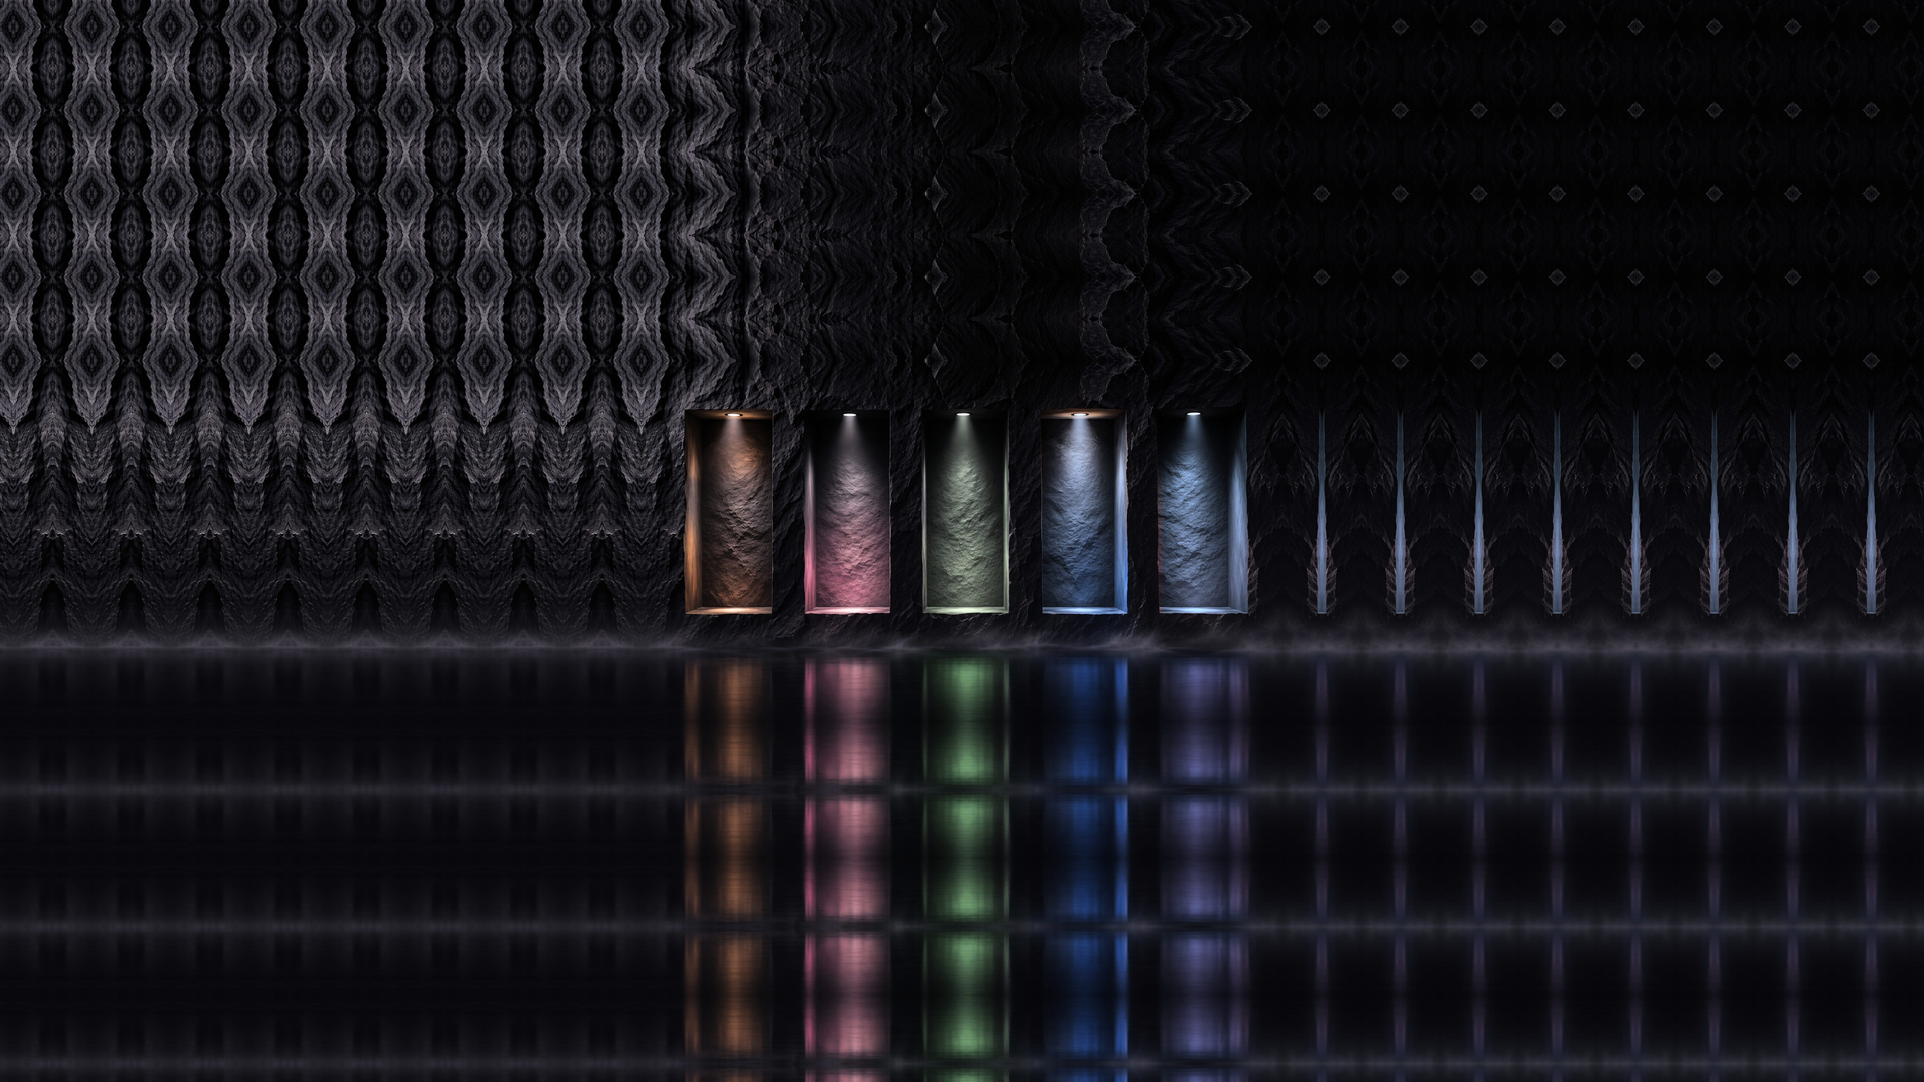
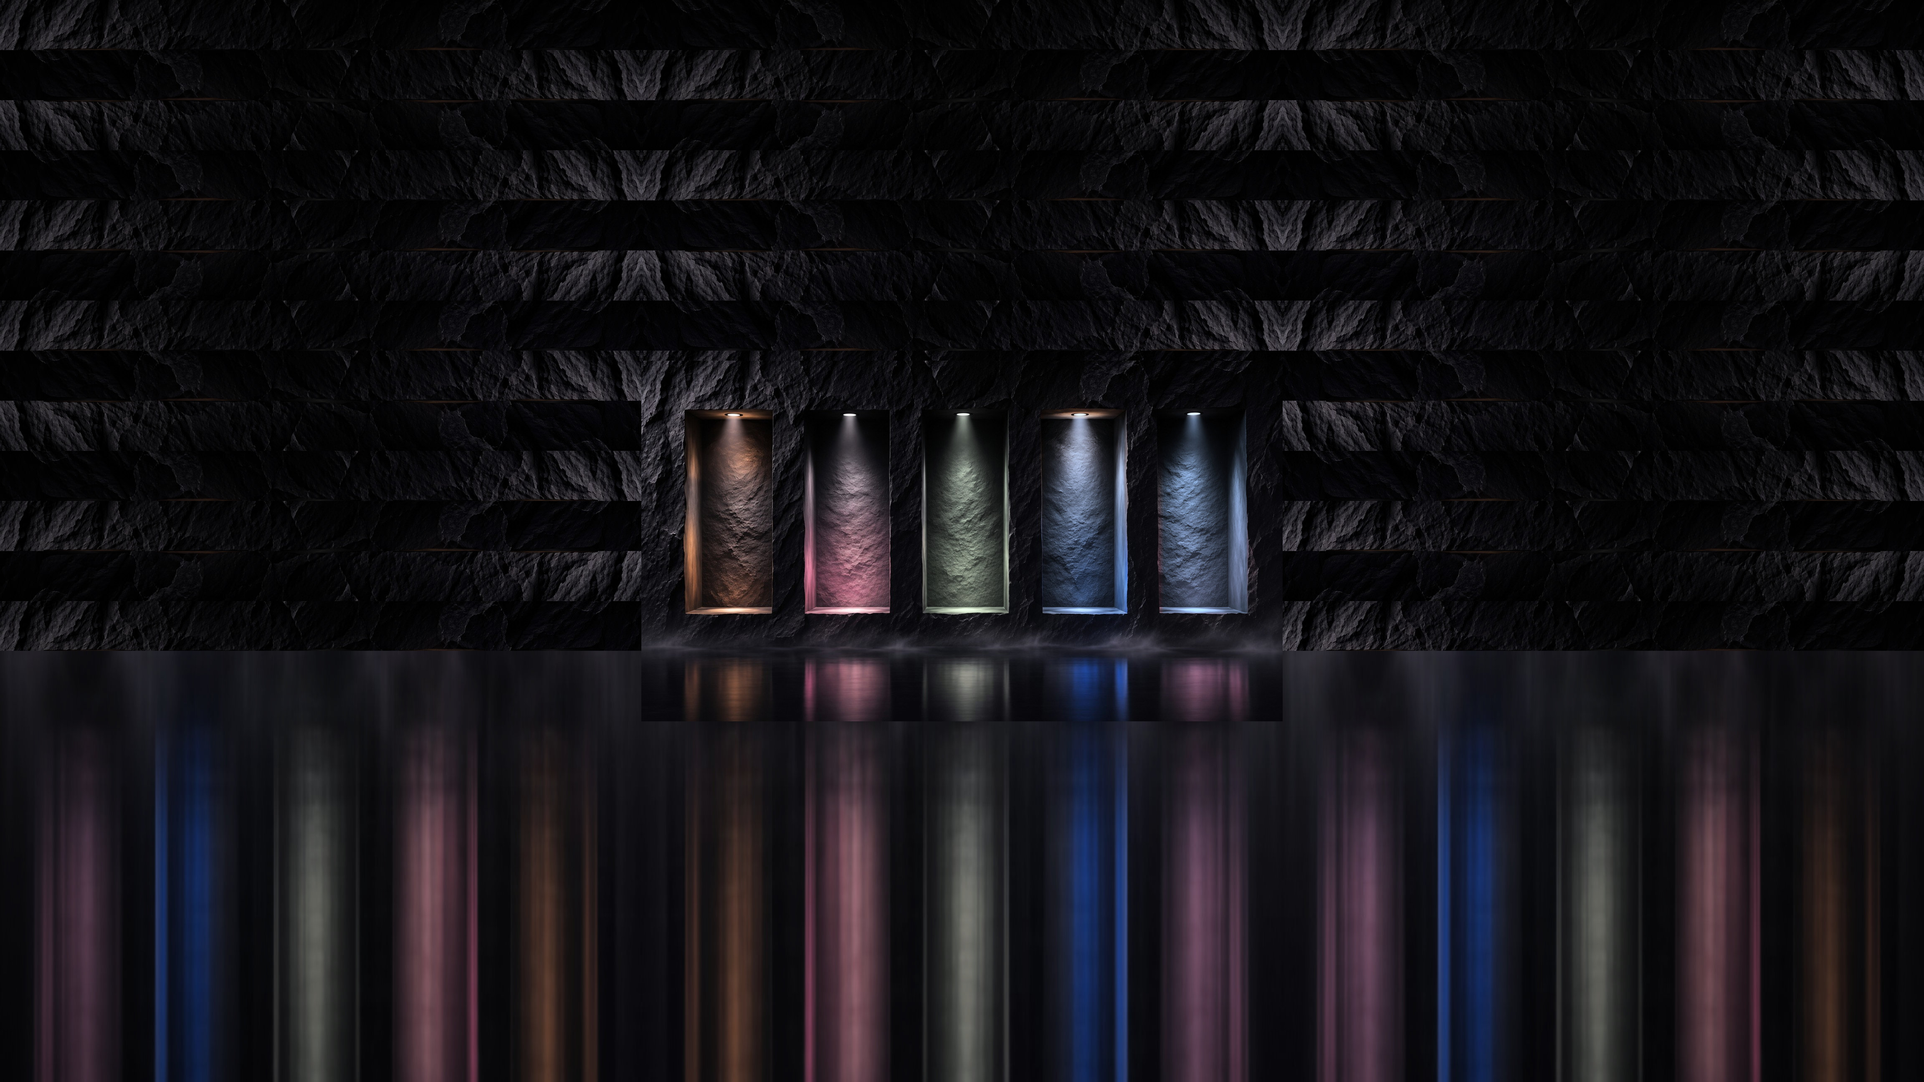
Add files via upload

diff --git a/app.js b/app.js
@@ -1,5 +1,5 @@
 import {
- ACESFilmicToneMapping, AmbientLight, Box3, CanvasTexture, Color, DoubleSide, GLTFLoader,
+ ACESFilmicToneMapping, AmbientLight, Box3, Color, GLTFLoader,
  Group, Mesh, MeshBasicMaterial, MeshStandardMaterial, PerspectiveCamera,
  PlaneGeometry, PMREMGenerator, RoomEnvironment, Scene, SpotLight,
  SRGBColorSpace, Vector3, WebGLRenderer
@@ -17,7 +17,7 @@ const ITEMS = [
 ];
 const D={w:1536,h:864,water:696}, M={w:864,h:1536,water:1273};
 const $=s=>document.querySelector(s);
-const el={surround:$('#surround'),world:$('#world'),viewport:$('#viewport'),image:$('#background'),tail:$('#waterContinuation'),glows:$('#nicheColors'),water:$('#waterSurface'),edges:$('#rockEdges'),fallbacks:$('#fallbacks'),hotspots:$('#hotspots'),three:$('#threeMount'),welcome:$('#welcome'),caption:$('#caption'),back:$('#back'),hint:$('#scrollHint'),status:$('#positionStatus')};
+const el={surround:$('#surround'),world:$('#world'),viewport:$('#viewport'),image:$('#background'),glows:$('#nicheColors'),water:$('#waterSurface'),fallbacks:$('#fallbacks'),hotspots:$('#hotspots'),three:$('#threeMount'),welcome:$('#welcome'),caption:$('#caption'),back:$('#back'),hint:$('#scrollHint'),status:$('#positionStatus')};
 const mql=matchMedia('(max-width:720px)'),reduced=matchMedia('(prefers-reduced-motion:reduce)');
 const clamp=(v,a,b)=>Math.max(a,Math.min(b,v));
 const lerp=(a,b,t)=>a+(b-a)*t;
@@ -34,17 +34,24 @@ function viewAt(i){
  if(idx===0)return {cx:f.w/2,cy:f.h/2,zoom:1};
  const n=niche(ITEMS[idx-1]);
  // Slightly wider selected shots: entire recessed niche stays visible, with rock around it.
- const zoom=mobile()?1.92:1.56;
- return {cx:n.cx,cy:(n.top+n.low)*.5+(mobile() && idx>=3?90:0),zoom};
+ const zoom=mobile()?2.06:1.56;
+ const cy=(n.top+n.low)*.5+(mobile() && idx>=3?90:0);
+ if(mobile()){
+   const vw=innerWidth,vh=innerHeight,base=Math.min(vw/f.w,vh/f.h);
+   const halfX=vw/(2*base*zoom),halfY=vh/(2*base*zoom);
+   return {cx:clamp(n.cx,halfX,f.w-halfX),cy:clamp(cy,halfY,f.h-halfY),zoom};
+ }
+ return {cx:n.cx,cy,zoom};
 }
 function shotAt(progress){return viewAt(clamp(Math.round(progress),0,5))}
 function readScroll(){
+ if(mobile())return;
  const idx=clamp(Math.round(scrollY/Math.max(1,innerHeight)),0,5);
  if(idx!==state.progress){state.progress=idx;state.target=shotAt(idx);setSelected(idx?ITEMS[idx-1]:null,idx)}
 }
 function goTo(index){
  const idx=clamp(Math.round(index),0,5);
- window.scrollTo({top:idx*innerHeight,behavior:'instant'});
+ if(!mobile())window.scrollTo({top:idx*innerHeight,behavior:'instant'});
  state.progress=idx;state.target=shotAt(idx);
  setSelected(idx?ITEMS[idx-1]:null,idx);
 }
@@ -70,20 +77,8 @@ function setSelected(item,idx){if(state.selected===item?.key)return;
  for(const n of el.hotspots.children)n.setAttribute('aria-current',String(n.dataset.key===state.selected));
 }
 
-// The supplied rough-rock images remain intact. Add only tiny dark, broken edge
-// silhouettes on the straight niche lips; there is no second fake wall image.
-function brokenEdge(svg,side,x,top,bottom,seed){
- // Sparse chips rather than periodic sawteeth: the photographic stone remains visible.
- let s=seed;const rand=()=>{s=(Math.imul(s,1664525)+1013904223)>>>0;return s/4294967296};
- const inset=side==='left'?1:-1;
- for(let j=0;j<16;j++){
-  const y=top+rand()*(bottom-top-34),length=9+rand()*30,depth=2+rand()*6;
-  const d=`M ${x} ${y.toFixed(1)} L ${(x+inset*depth*.32).toFixed(1)} ${(y+length*.21).toFixed(1)} L ${(x+inset*depth).toFixed(1)} ${(y+length*.46).toFixed(1)} L ${(x+inset*depth*.68).toFixed(1)} ${(y+length*.77).toFixed(1)} L ${x} ${(y+length).toFixed(1)} Z`;
-  const path=document.createElementNS('http://www.w3.org/2000/svg','path');path.setAttribute('d',d);path.setAttribute('fill','#07090a');path.setAttribute('fill-opacity',String(.45+rand()*.25));svg.append(path)
- }
-}
-function buildWorld(){const f=metrics();el.world.style.width=f.w+'px';el.world.style.height=f.h+'px';el.image.onload=()=>{state.imagesReady=true;state.waterLast=0;state.three?.updateBackground?.()};el.image.src=mobile()?'scene-mobile.png':'scene-desktop.png';el.surround.src=mobile()?'surround-mobile.jpg':'surround-desktop.jpg';el.tail.src=mobile()?'water-continuation-mobile.png':'water-continuation-desktop.png';el.tail.style.top=f.h+'px';el.tail.style.width=f.w+'px';if(el.image.complete && el.image.naturalWidth)state.imagesReady=true;
- el.glows.replaceChildren();el.fallbacks.replaceChildren();el.hotspots.replaceChildren();el.edges.replaceChildren();el.edges.setAttribute('viewBox',`0 0 ${f.w} ${f.h}`);el.edges.setAttribute('width',f.w);el.edges.setAttribute('height',f.h);
+function buildWorld(){const f=metrics();el.world.style.width=f.w+'px';el.world.style.height=f.h+'px';el.image.onload=()=>{state.imagesReady=true;state.waterLast=0};el.image.src=mobile()?'scene-mobile.png':'scene-desktop.png';el.surround.src=mobile()?'surround-mobile.jpg':'surround-desktop.jpg';if(el.image.complete && el.image.naturalWidth)state.imagesReady=true;
+ el.glows.replaceChildren();el.fallbacks.replaceChildren();el.hotspots.replaceChildren();
  for(let i=0;i<ITEMS.length;i++){const p=ITEMS[i],n=niche(p);
   const glow=document.createElement('div');glow.className='niche-light';glow.dataset.key=p.key;
   Object.entries({'--x':n.cx+'px','--y':n.top+'px','--w':n.width+'px','--h':(n.low-n.top)+'px','--tint':`rgba(${hexRgb(p.color).join(',')},.70)`}).forEach(([k,v])=>glow.style.setProperty(k,v));el.glows.append(glow);
@@ -153,40 +148,9 @@ async function createWebGL(){let renderer;
  catch(error){console.warn('WebGL unavailable; restored bottle image fallbacks active',error);return null}
  const scene=new Scene(),camera=new PerspectiveCamera(32,1,.05,70);camera.position.z=12;
  scene.environmentIntensity=1.03;scene.add(new AmbientLight('#b8c3d2',.34));
- // The actual supplied rock image is rendered on a full-frustum plane BEHIND
- // the original GLBs. Physical glass can thus transmit/refract the rock texture.
- // It is not a separate photo-based product scene; the camera remains continuous.
- // One backdrop texture inside WebGL: coloured bounced light is blended into the
- // photographed rock BEFORE the refractive bottle surfaces render. There is no
- // second rectangular photograph pasted over the GLBs.
- const bgCanvas=document.createElement('canvas');
- const bgCtx=bgCanvas.getContext('2d');
- const bgTex=new CanvasTexture(bgCanvas);bgTex.colorSpace=SRGBColorSpace;
- const bgPlane=new Mesh(new PlaneGeometry(1,1),new MeshBasicMaterial({map:bgTex,toneMapped:false,depthWrite:false}));
- bgPlane.position.z=-3.5;bgPlane.renderOrder=-100;scene.add(bgPlane);
- let lastBackdrop=0,shade=ITEMS.map(()=>.12);
- function drawIntegratedBackdrop(now=0){
-   if(!el.image.complete||!el.image.naturalWidth)return;
-   const f=metrics();if(bgCanvas.width!==f.w||bgCanvas.height!==f.h){bgCanvas.width=f.w;bgCanvas.height=f.h;}
-   bgCtx.clearRect(0,0,f.w,f.h);bgCtx.drawImage(el.image,0,0,f.w,f.h);
-   bgCtx.save();bgCtx.globalCompositeOperation='screen';
-   ITEMS.forEach((p,i)=>{
-     const goal=state.selected===p.key?.92:.13;
-     shade[i]+=(goal-shade[i])*.17;
-     const n=niche(p),[r,g,b]=hexRgb(p.color);
-     // A bounded back-wall bounce that illuminates the stone, not the foreground bottle.
-     const grad=bgCtx.createRadialGradient(n.cx,n.top+n.height*.60,8,n.cx,n.top+n.height*.56,n.width*.95);
-     grad.addColorStop(0,`rgba(${r},${g},${b},${(shade[i]*.38).toFixed(3)})`);
-     grad.addColorStop(.52,`rgba(${r},${g},${b},${(shade[i]*.18).toFixed(3)})`);
-     grad.addColorStop(1,'rgba(0,0,0,0)');
-     bgCtx.fillStyle=grad;bgCtx.fillRect(n.cx-n.width,n.top,n.width*2,n.low-n.top);
-   });bgCtx.restore();bgTex.needsUpdate=true;
- }
- function updateBackground(){if(!el.image.complete||!el.image.naturalWidth)return;
-   drawIntegratedBackdrop();
-   const visibleHeight=2*Math.tan(camera.fov*Math.PI/360)*(camera.position.z-bgPlane.position.z);
-   bgPlane.scale.set(visibleHeight*camera.aspect,visibleHeight,1);
- }
+ // The photograph is a DOM layer that always remains visible behind the
+ // transparent WebGL bottle canvas. Never draw another rectangular wall plane
+ // inside WebGL: that opaque plane caused the black screen on mobile.
 
  let pmrem;try{const room=new RoomEnvironment();studioPanels(room);pmrem=new PMREMGenerator(renderer);const env=pmrem.fromScene(room,.011);scene.environment=env.texture;pmrem.dispose();room.dispose()}catch(err){console.warn('Studio reflections unavailable',err)}
  const s={models:new Map(),spins:new Map(),manualYaw:new Map(),loaded:new Set(),width:0,height:0,renderer,scene,camera};
@@ -198,7 +162,7 @@ async function createWebGL(){let renderer;
   bleu:{absorption:'#3479dc',liquid:'#1554be',distance:1.04}
  };
  const sizeF=()=>2*Math.tan(32*Math.PI/360)*12;
- function resize(){const {w,h}=metrics();if(w!==s.width||h!==s.height){s.width=w;s.height=h;renderer.setSize(w,h,false);camera.aspect=w/h;camera.updateProjectionMatrix();updateBackground()}const f=metrics(),worldH=sizeF(),worldW=worldH*camera.aspect;
+ function resize(){const {w,h}=metrics();if(w!==s.width||h!==s.height){s.width=w;s.height=h;renderer.setSize(w,h,false);camera.aspect=w/h;camera.updateProjectionMatrix()}const f=metrics(),worldH=sizeF(),worldW=worldH*camera.aspect;
   for(const p of ITEMS){const val=s.models.get(p.key);if(!val)continue;const n=niche(p),height=n.height/f.h*worldH,baseX=(n.cx/f.w-.5)*worldW,baseY=(.5-n.bottom/f.h)*worldH;const scale=height/val.originalHeight;
    val.pivot.position.set(baseX,baseY+height/2,.15);val.body.position.set(0,-height/2,0);val.body.scale.setScalar(scale);
    val.light.position.set(baseX+.3,baseY+height+1.2,2);val.light.target.position.set(baseX,baseY+height*.53,.15);
@@ -218,18 +182,18 @@ async function createWebGL(){let renderer;
       // Preserve the beautiful saturated liquid authored in the original GLB.
       // Avoid a second copy of the liquid on the glass as a shader/overlay.
       mesh.visible=true;
-      mat.transmission=.91;mat.ior=1.37;mat.thickness=.095;
+      mat.transmission=Math.min(mat.transmission||0,.35);mat.ior=1.37;mat.thickness=.11;
       mat.roughness=.095;mat.clearcoat=.28;mat.clearcoatRoughness=.12;
       mat.attenuationColor=new Color(mats.liquid);
-      mat.attenuationDistance=.56;mat.envMapIntensity=.78;
+      mat.attenuationDistance=.38;mat.envMapIntensity=.95;
       mat.depthWrite=true;mat.side=0;
    }else if(name.includes('crystal') && !name.includes('cap')){
       // Keep ORIGINAL coloured glass, do not bleach it with whitish RGB overrides.
-      mat.transmission=.96;mat.thickness=.038;mat.ior=1.47;
+      mat.transmission=Math.min(mat.transmission||.88,.86);mat.thickness=.055;mat.ior=1.47;
       mat.attenuationColor=new Color(mats.absorption);
       mat.attenuationDistance=mats.distance;
       mat.roughness=.052;mat.clearcoat=.34;mat.clearcoatRoughness=.07;
-      mat.envMapIntensity=1.4;mat.side=0;
+      mat.envMapIntensity=1.18;mat.side=0;
    }else if(name.includes('clear')&&name.includes('cap')){
       mat.transmission=.97;mat.thickness=.04;mat.ior=1.49;
       mat.roughness=.045;mat.clearcoat=.36;mat.envMapIntensity=1.22;
@@ -250,7 +214,7 @@ async function createWebGL(){let renderer;
   s.models.set(p.key,{pivot,body,originalHeight:height,light,rim,white,product});s.loaded.add(p.key);resize();if(state.selected===p.key&&!reduced.matches)s.spins.set(p.key,performance.now());
   el.fallbacks.querySelector(`[data-key="${p.key}"]`)?.classList.add('webgl-ready');el.glows.querySelector(`[data-key="${p.key}"]`)?.classList.add('webgl-lit');
  }catch(err){console.warn('Original GLB unavailable; retaining bottle image',p.key,err)}}
- function frame(now){if(document.hidden)return;resize();if(now-lastBackdrop>75){drawIntegratedBackdrop(now);lastBackdrop=now;}for(const p of ITEMS){const model=s.models.get(p.key);if(!model)continue;
+ function frame(now){if(document.hidden)return;resize();for(const p of ITEMS){const model=s.models.get(p.key);if(!model)continue;
   const selected=state.selected===p.key,other=state.selected&&state.selected!==p.key;
   const emphasis=selected?1.5:other?.85:1;
   model.light.intensity=lerp(model.light.intensity,9.0*(selected?1.52:other?.70:1),.09);model.rim.intensity=lerp(model.rim.intensity,11*(selected?1.65:other?.65:1),.085);model.white.intensity=lerp(model.white.intensity,2.3*(selected?1.34:other?.8:1),.09);
@@ -262,24 +226,29 @@ async function createWebGL(){let renderer;
  }
  function spin(key){if(key==='photo'||!s.loaded.has(key)||reduced.matches||s.spins.has(key))return;s.spins.set(key,performance.now())}
  window.addEventListener('resize',resize);mql.addEventListener('change',resize);
- s.frame=frame;s.resize=resize;s.spin=spin;s.rotateBy=(key,delta)=>s.manualYaw.set(key,(s.manualYaw.get(key)||0)+delta);s.updateBackground=updateBackground;
+ s.frame=frame;s.resize=resize;s.spin=spin;s.rotateBy=(key,delta)=>s.manualYaw.set(key,(s.manualYaw.get(key)||0)+delta);
  resize();Promise.allSettled(ITEMS.filter(p=>p.file).map(load)).then(()=>{console.info('ATELIER restored four original 3D models')});return s;
 }
 
-function onResize(){const previous=state.progress;buildWorld();state.progress=clamp(scrollY/Math.max(1,innerHeight),0,5);state.target=shotAt(state.progress);state.shot=state.target;}
+function onResize(){
+ const previous=state.progress;buildWorld();
+ state.progress=mobile()?previous:clamp(Math.round(scrollY/Math.max(1,innerHeight)),0,5);
+ state.target=shotAt(state.progress);state.shot=state.target;
+}
 for(let i=0;i<6;i++){const block=document.createElement('div');block.className='scroll-stop';block.style.height='100vh';$('#scrollTrack').append(block)}
 window.addEventListener('scroll',readScroll,{passive:true});
 // One wheel gesture = one distinct product checkpoint, no intermediate stops.
 window.addEventListener('wheel',e=>{
- if(!$('#basketOverlay').hidden || Math.abs(e.deltaY)<3)return;
+ if(mobile() || !$('#basketOverlay').hidden || Math.abs(e.deltaY)<3)return;
  e.preventDefault();const now=performance.now();
  if(now-state.lastWheel<600)return;
  state.lastWheel=now;
  goTo(clamp(state.progress+(e.deltaY>0?1:-1),0,5));
 },{passive:false});
 let touchOrigin=null;
-window.addEventListener('touchstart',e=>{if(e.touches.length===1)touchOrigin={x:e.touches[0].clientX,y:e.touches[0].clientY};},{passive:true});
+window.addEventListener('touchstart',e=>{if(mobile())return;if(e.touches.length===1)touchOrigin={x:e.touches[0].clientX,y:e.touches[0].clientY};},{passive:true});
 window.addEventListener('touchend',e=>{
+ if(mobile())return;
  if(!touchOrigin || !$('#basketOverlay').hidden)return;
  const dy=(e.changedTouches[0]?.clientY||touchOrigin.y)-touchOrigin.y;
  const dx=(e.changedTouches[0]?.clientX||touchOrigin.x)-touchOrigin.x;
@@ -290,5 +259,6 @@ window.addEventListener('touchend',e=>{
 },{passive:true});
 window.addEventListener('resize',onResize);
 mql.addEventListener('change',onResize);
+if(mobile())window.scrollTo(0,0);
 renderBasket();buildWorld();readScroll();requestAnimationFrame(paintWorld);
 createWebGL().then(v=>state.three=v).catch(err=>console.warn('3D fallback remains available',err));

diff --git a/style.css b/style.css
@@ -110,3 +110,20 @@ html{scroll-snap-type:y mandatory;scroll-padding:0;scroll-behavior:auto}
  -webkit-mask-composite:source-in;
 }
 @media(max-width:720px){.niche-hit::after{font-size:23px}}
+
+
+/* 2026-11: single continuous photographed wall + transparent 3D products */
+.wall-image{opacity:1!important;visibility:visible!important;mask:none!important;-webkit-mask:none!important;filter:none!important}
+.three-layer,.three-layer canvas{background:transparent!important;pointer-events:none!important}
+.world-surround{opacity:1;pointer-events:none}
+.rock-edges,.water-continuation{display:none!important}
+/* Mobile is an interactive static gallery. There are no scroll checkpoints or
+   swipe-to-change controls: tap a bottle or return via All Fragrances. */
+@media(max-width:720px){
+ html,body{height:100%;overflow:hidden!important;touch-action:manipulation;overscroll-behavior:none;scroll-snap-type:none!important}
+ .experience,.camera-viewport{overscroll-behavior:none;touch-action:manipulation}
+ .world{touch-action:manipulation}
+ .scroll-track,.scroll-stop,.scroll-hint{display:none!important}
+ .niche-hit{touch-action:manipulation}
+ .camera-viewport{background-color:#131218;background-image:url('surround-mobile.jpg');background-size:cover;background-position:center center}
+}

diff --git a/index.html b/index.html
@@ -13,10 +13,8 @@
   <div class="world" id="world" aria-label="Five coloured fragrances illuminated in a rough basalt wall">
    <img id="surround" class="world-surround" alt="" aria-hidden="true" src="surround-desktop.jpg">
    <img id="background" class="wall-image" alt="Carved rough black-rock alcoves above a dark mirror-like reflective pool" src="scene-desktop.png">
-   <img id="waterContinuation" class="water-continuation" src="water-continuation-desktop.png" alt="" aria-hidden="true">
    <div class="niche-colors" id="nicheColors" aria-hidden="true"></div>
    <canvas class="water-surface" id="waterSurface" aria-hidden="true"></canvas>
-   <svg class="rock-edges" id="rockEdges" aria-hidden="true"></svg>
    <div class="bottle-fallbacks" id="fallbacks" aria-hidden="true"></div>
    <div class="three-layer" id="threeMount" aria-hidden="true"></div>
    <div class="hotspots" id="hotspots"></div>

diff --git a/README.md b/README.md
@@ -1,33 +1,12 @@
-# Dennis’s Shop — Unveiled Collection
+# Dennis’s Shop — corrected five-bottle showroom
 
-Five-bottle luxury basalt showroom. The files in this package are **all at the root level**, ready to upload individually in GitHub using **Add file → Upload files**. `index.html` is lowercase. Do not upload the ZIP itself as a site file; extract it first. GitHub Pages must be configured to deploy from the default branch, root (`/`).
+Static GitHub Pages release. Upload all files into the repository root; there are no asset folders or build steps.
 
-## Experience
+- Desktop: scroll wheel/trackpad moves between the gallery and five discrete bottle checkpoints; clicking a bottle jumps straight to its checkpoint.
+- Mobile: no page scrolling or swipe navigation; tap a bottle to zoom into its niche and tap **All Fragrances** to return to the gallery.
+- Background: the original rock-wall photographs remain visible as DOM images behind the transparent WebGL bottle layer. No opaque WebGL background plane.
+- Models: four original GLBs unchanged. The fifth blue-and-gold product remains a static transparent PNG.
+- Fallback: included bottle PNGs for browsers without WebGL.
+- Basket: client-side demonstration; payment is not connected.
 
-- Five photographic niches, preserving the source rough-rock layouts: five in a row on desktop, two above three on phones.
-- The scene, reflection floor, and rock all extend beyond the edges, including on close-up. There are no separate screenshots or product pages.
-- Four original, unchanged GLB model files (Amber Doré, Rose Lune, Galet, Sillage Bleu) with restored native saturated glass and liquid. The script no longer uses the previous secondary refraction shader which caused stippled overlays. A soft spotlight and coloured back/rim lights highlight the selected bottle.
-- Fifth **Bleu Royal** uses the supplied transparent blue-and-gold PNG as an intentionally static photo; it does not spin.
-- Wheel and touch navigation snap to the gallery and five exact product checkpoints, no halfway holding positions. Direct tap/click flies to a product in the same environment. GLB bottles turn once on selection and can be manually rotated horizontally.
-- Product names display beneath gallery niches and only in the bottom gradient dock when focused. The dock shows the product description, price, a symbolic Fruit of the Spirit pairing, and the add-to-basket action.
-- Coloured water highlights, soft ripple movement and continued rough stone surround. Blue and green ambient panels are graded from the user's original images, preserving their physical texture and niche geometry. No touch-follow light or particle-dot layer.
-- Basket stores local demo quantities only; no real payment checkout is integrated.
-
-## Prices and five illustrative fruit pairings
-
-| Perfume | Price | Fruit of the Spirit |
-| --- | ---: | --- |
-| Ambre Doré | €80 | Joy |
-| Rose Lune | €75 | Love |
-| Galet | €95 | Kindness |
-| Sillage Bleu | €60 | Peace |
-| Bleu Royal | €60 (placeholder) | Faithfulness |
-
-The pairings are creative merchandising labels, not a theological equivalence. The fifth bottle's €60 is a placeholder until an exact fifth price is supplied.
-
-## Verification and limitations
-
-- HTML/CSS/JS paths resolve from repository root, with no folder nesting.
-- The four GLB files are unchanged from the prior original model set.
-- Automated desktop/mobile interaction tests passed: gallery, all 5 click targets, snap to exact checkpoint, captions, backdrop, prices and basket totals.
-- The automated local browser did **not** provide a WebGL context. The screenshots from that browser show the improved 2D fallbacks, not the finished live 3D graphics. Real-time glass and cap appearance must be visually checked in a WebGL-capable browser on GitHub Pages. A browser with no WebGL shows the cleaned PNG fallbacks.
+Only files required by this version are included. License for Three.js is retained.
